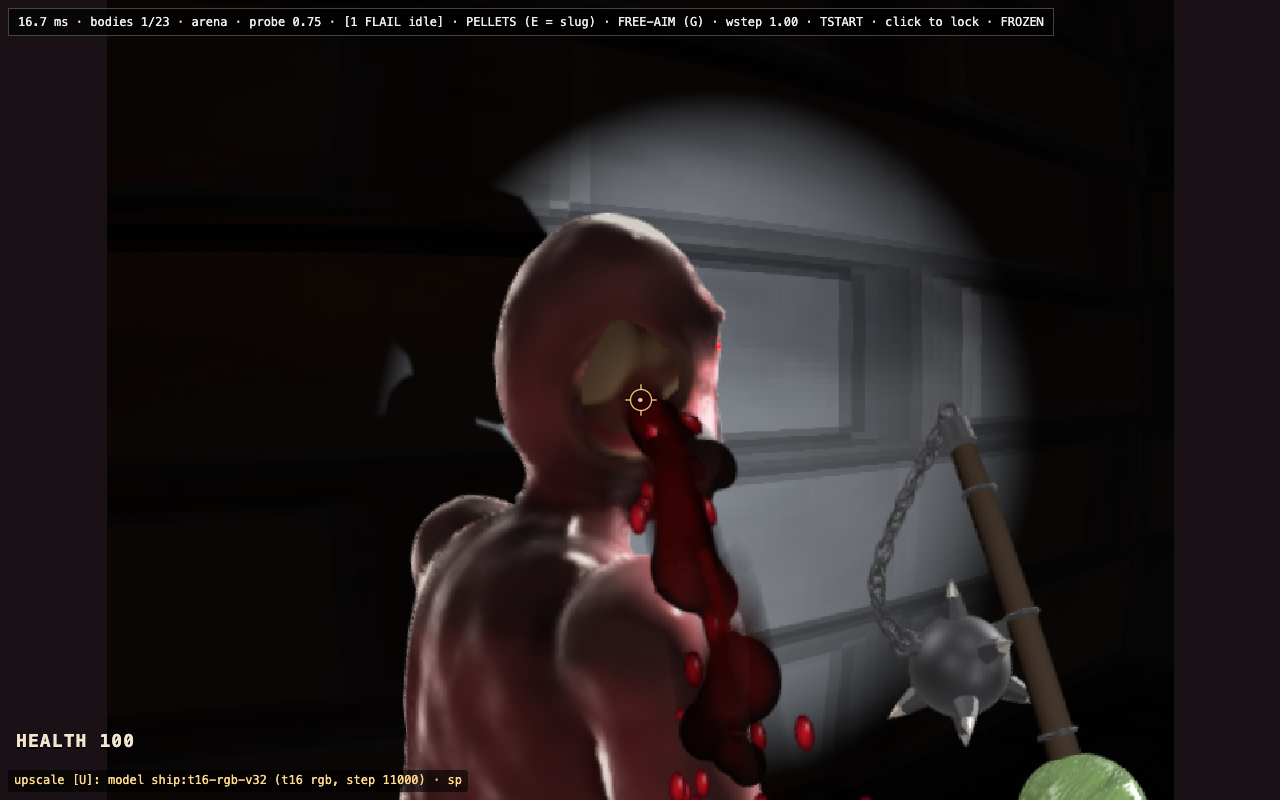
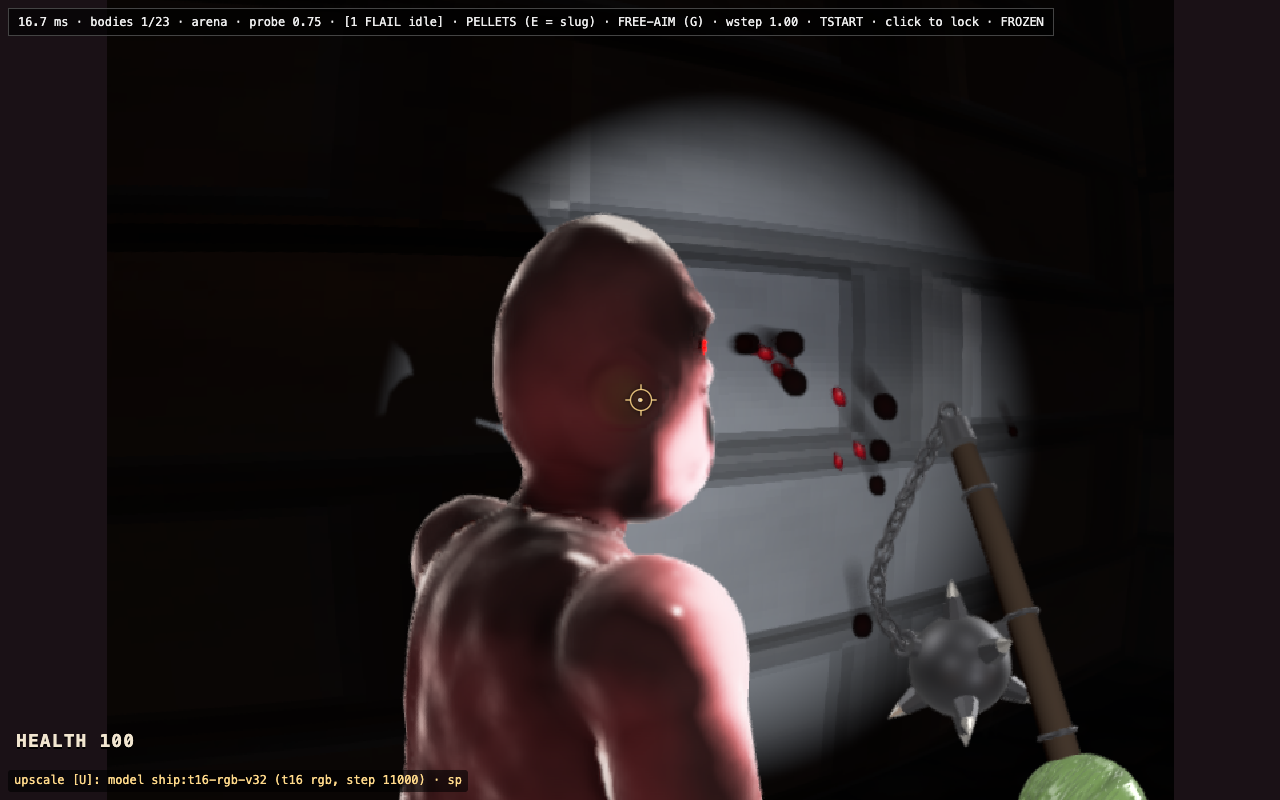
fix(head-damage): the skull is per region and craters anchor where struck, so side-of-head hits kill
Root cause: only the brow and crown had a skull in the v2 model, so a region could crack only if it was
one of those two. The flail gate's side stand lands nearest cheekL (hs -0.96, -0.23, -0.19): ten hits
stripped the cheek to 0 and never killed. And every region crater was stamped at the region's fixed
centre, so the cheekL crater sat on the front of the face ~10 cm from where the side hits landed —
the struck side showed no wound.

Change:
- head-damage.ts: skull damage is per non-orbit region (brow, crown, cheekL, cheekR); any of them
  exposes skull below skullExposed and cracks by skullPerHit (+-jitter) per hit on it, bringing the
  brain out of THAT region. A brow hit still cracks a bare crown; orbit hits crack nothing.
  state.anchor stores the hs of the first blow that struck (nearest + stripped) a non-orbit region.
- game-head-damage.ts: a region's surface point is traced along its anchor's direction when it has
  one (region centre otherwise; orbits always at the orbit), so its crater, its growth, and the
  brain/lumps/chips all come from where it was struck. debug() exposes the anchors.
- flail-gate.mjs: new check that the struck region's crater sits within 5 cm of the strike (hits 2+).
- spec §15: an "as built" note.

Flail gate: PASSED; the side stand now kills on head hit 5 (skull exposed on hit 3), the cheekL
crater 0.4-2.1 cm from the strike. Photos head-hit-1 / head-hit-kill refreshed.

diff --git a/src/lab/sdf-zombie/head-damage.ts b/src/lab/sdf-zombie/head-damage.ts
@@ -6,12 +6,22 @@
 // skull, and about two more hits there crack it — the brain comes out and the zombie dies. Per-zombie
 // jitter (rand) moves every threshold crossing.
 //
+// AS BUILT (spec §15, v2 fixes): the skull is PER REGION — any non-orbit region (brow, crown, cheekL, cheekR)
+// exposes skull below skullExposed and cracks there, so hits on the side of the head kill too (they land
+// nearest a cheek). And a non-orbit region's crater is ANCHORED (state.anchor) at the hs of the first blow
+// that struck it (it was the nearest region and lost flesh); later strips grow it there. A region only
+// spilled on has no anchor (the leaf puts its crater at the region centre); the orbits never anchor — the
+// eye lives at the orbit.
+//
 // One hit, in order: wobble; snap any eye left dangling by an earlier hit; pop an exposed orbit's eye when
 // it is the nearest region (that orbit is not stripped this hit); strip every region by a Gaussian of its
 // hs distance (the upper face also strips the crown at crownSpill); cross the orbit / skull thresholds
 // once; then crack an exposed skull that was hit (the crown counts for brow hits too).
 export type EyeSide = 'L' | 'R';
 export type HeadRegion = 'orbitL' | 'orbitR' | 'brow' | 'crown' | 'cheekL' | 'cheekR';
+/** The regions with a skull under them (every region but the orbits). */
+export type SkullRegion = Exclude<HeadRegion, 'orbitL' | 'orbitR'>;
+export const SKULL_REGIONS: readonly SkullRegion[] = ['brow', 'crown', 'cheekL', 'cheekR'];
 type HS = readonly [number, number, number];   // head-local ÷ half-extents (x right, y up, z face-forward)
 
 export const HEAD_REGIONS: Readonly<Record<HeadRegion, HS>> = {
@@ -42,9 +52,11 @@ export type EyeState = 'painted' | 'in-orbit' | 'dangling' | 'gone';
 export interface HeadDamageState {
   hits: number;
   flesh: Record<HeadRegion, number>;
-  skull: { brow: number; crown: number };
+  skull: Record<SkullRegion, number>;
   eyes: Record<EyeSide, EyeState>;
   dead: boolean;
+  /** Where each struck non-orbit region's crater sits: the hs of the first blow that struck it. */
+  anchor: Partial<Record<SkullRegion, HS>>;
 }
 
 export type HeadEvent =
@@ -53,22 +65,24 @@ export type HeadEvent =
   | { kind: 'orbit-exposed'; side: EyeSide }
   | { kind: 'eye-pop'; side: EyeSide }
   | { kind: 'eye-snap'; side: EyeSide }
-  | { kind: 'skull-exposed'; region: 'brow' | 'crown' }
-  | { kind: 'brain'; region: 'brow' | 'crown' }
+  | { kind: 'skull-exposed'; region: SkullRegion }
+  | { kind: 'brain'; region: SkullRegion }
   | { kind: 'kill' };
 
 const SIDES: readonly EyeSide[] = ['L', 'R'];
 const orbitOf = (side: EyeSide): HeadRegion => (side === 'L' ? 'orbitL' : 'orbitR');
 const sideOf = (r: HeadRegion): EyeSide | null => (r === 'orbitL' ? 'L' : r === 'orbitR' ? 'R' : null);
+export const isSkullRegion = (r: HeadRegion): r is SkullRegion => r !== 'orbitL' && r !== 'orbitR';
 const d2 = (a: HS, b: HS): number => (a[0] - b[0]) ** 2 + (a[1] - b[1]) ** 2 + (a[2] - b[2]) ** 2;
 
 export function makeHeadDamage(): HeadDamageState {
   return {
     hits: 0,
     flesh: { orbitL: 1, orbitR: 1, brow: 1, crown: 1, cheekL: 1, cheekR: 1 },
-    skull: { brow: 0, crown: 0 },
+    skull: { brow: 0, crown: 0, cheekL: 0, cheekR: 0 },
     eyes: { L: 'painted', R: 'painted' },
     dead: false,
+    anchor: {},
   };
 }
 
@@ -82,7 +96,7 @@ export function nearestRegion(hs: HS): HeadRegion {
   return best;
 }
 
-const skullBare = (s: HeadDamageState, r: 'brow' | 'crown'): boolean => s.flesh[r] < REGION_TUNING.skullExposed;
+const skullBare = (flesh: Record<HeadRegion, number>, r: SkullRegion): boolean => flesh[r] < REGION_TUNING.skullExposed;
 
 /** One head-region hit. `hs`: the hit point, head-local ÷ half-extents. `strip`: the swing's flesh strip
  *  (0.25 R/L, 0.35 H). `rand`: the zombie's seeded stream in [0, 1); one draw per hit (the jitter). */
@@ -96,6 +110,7 @@ export function headHit(
   const flesh = { ...s.flesh };
   const skull = { ...s.skull };
   const eyes = { ...s.eyes };
+  const anchor = { ...s.anchor };
   let dead = s.dead;
 
   if (!dead) {
@@ -128,6 +143,8 @@ export function headHit(
     flesh[r] = Math.max(0, was - amt);
     if (was - flesh[r] >= T.stripEventMin) events.push({ kind: 'strip', region: r, flesh: flesh[r] });
   }
+  // The struck region's crater anchors where this blow landed, once (before its strip event is handled).
+  if (isSkullRegion(near) && !anchor[near] && flesh[near] < s.flesh[near]) anchor[near] = [hit.hs[0], hit.hs[1], hit.hs[2]];
   if (!dead) {
     // 5. Thresholds, crossed once.
     for (const side of SIDES) {
@@ -136,14 +153,15 @@ export function headHit(
         events.push({ kind: 'orbit-exposed', side });
       }
     }
-    for (const r of ['brow', 'crown'] as const) {
+    for (const r of SKULL_REGIONS) {
       if (s.flesh[r] >= T.skullExposed && flesh[r] < T.skullExposed) events.push({ kind: 'skull-exposed', region: r });
     }
     // 6. Skull: the hit region's bare skull cracks (a brow hit cracks the bare crown if the brow is covered).
-    const now = { ...s, flesh };
-    const target: 'brow' | 'crown' | null =
-      near === 'crown' ? (skullBare(now, 'crown') ? 'crown' : null)
-      : near === 'brow' ? (skullBare(now, 'brow') ? 'brow' : skullBare(now, 'crown') ? 'crown' : null)
+    //    Orbit hits crack nothing.
+    const target: SkullRegion | null =
+      !isSkullRegion(near) ? null
+      : skullBare(flesh, near) ? near
+      : near === 'brow' && skullBare(flesh, 'crown') ? 'crown'
       : null;
     if (target) {
       skull[target] += T.skullPerHit * jitter;
@@ -153,7 +171,7 @@ export function headHit(
       }
     }
   }
-  return { state: { hits: s.hits + 1, flesh, skull, eyes, dead }, events };
+  return { state: { hits: s.hits + 1, flesh, skull, eyes, dead, anchor }, events };
 }
 
 /** The zombie died some other way (collapse, dynamite): a dangling eye snaps off. */

diff --git a/src/lab/sdf-zombie/webgpu/game-head-damage.ts b/src/lab/sdf-zombie/webgpu/game-head-damage.ts
@@ -13,7 +13,9 @@
 //
 // EVENTS → WORLD.
 //   strip          the region's ONE crater, stamped or replaced (Wound.headRegion) at the region's surface
-//                  point — traced from the region's hs direction toward the head centre — radius
+//                  point — traced toward the head centre from its ANCHOR's hs direction (the model's
+//                  state.anchor: where the first blow that struck the region landed), or from the region
+//                  centre's while it has none (only spilled on; the orbits always) — radius
 //                  REGION_TUNING.craterR(region, flesh), 'keep', no sever. One lasting dent per hit.
 //   orbit-exposed  that eye's painted glow off (view.setEyeGlow) + the IN-ORBIT eyeball: one piece of
 //                  eyeballPrims (no nerve) 1 cm inside the orbit's surface point, looking along the head forward.
@@ -23,7 +25,7 @@
 //                  PLUG-ONLY piece is attached in its place.
 //   skull-exposed  nothing extra: from the threshold on the region's crater carves past the measured skull depth;
 //                  above it the carve stays in the flesh (HEAD_LEAF.carve, regionCarve).
-//   brain          the brain mesh + lumps + chips from the CRACKED region's surface point, the reduced blood,
+//   brain          the brain mesh + lumps + chips from the CRACKED region's (anchored) surface point, the reduced blood,
 //                  and a CROWN.brainR cavity there (headRegion 'brain').
 //   kill           forceCollapse.
 //
@@ -52,8 +54,8 @@ import { clothifyWound, woundWorldPos, worldHitToWound, type Wound } from '../da
 import { sdBody, sdPrimitive } from '../validate';
 import { headQuatOf } from '../rig-bind';
 import {
-  HEAD_REGIONS, REGION_TUNING, headDeath, headHit, makeHeadDamage,
-  type EyeSide, type EyeState, type HeadDamageState, type HeadEvent, type HeadRegion,
+  HEAD_REGIONS, REGION_TUNING, headDeath, headHit, isSkullRegion, makeHeadDamage,
+  type EyeSide, type EyeState, type HeadDamageState, type HeadEvent, type HeadRegion, type SkullRegion,
 } from '../head-damage';
 import {
   addDent, deformHead, headAffine, headAffineMatrix, kickWobble, makeHeadDeform, rotate, stepWobble,
@@ -130,9 +132,11 @@ export interface HeadDamageDeps {
 export interface HeadDamageDebug {
   hits: number;
   flesh: Record<HeadRegion, number>;
-  skull: { brow: number; crown: number };
+  skull: Record<SkullRegion, number>;
   eyes: Record<EyeSide, EyeState>;
   dead: boolean;
+  /** The anchored regions' hs (the model's state.anchor). */
+  anchor: Partial<Record<SkullRegion, readonly [number, number, number]>>;
   squash: number;
   flat: number[];
   /** Each eye's eyeball centre (world): in its orbit, or at the end of its stalk; null painted / gone. */
@@ -207,11 +211,11 @@ function normalAt(field: (p: Vec3) => number, p: Vec3): Vec3 {
 
 /** Outside the head on a region's hs line: the leaf traces from here toward the head centre. The orbits use
  *  eyeRayStart (in front of the face on the eye's line, as v1's socket did); the rest start 1.5 head radii
- *  out along their hs direction. */
-export function regionRayStart(frame: HeadFrame, r: HeadRegion): Vec3 {
+ *  out along their hs direction — `anchor`'s when the region has one (state.anchor), else the centre's. */
+export function regionRayStart(frame: HeadFrame, r: HeadRegion, anchor?: readonly [number, number, number]): Vec3 {
   if (r === 'orbitL') return eyeRayStart(frame, 'L');
   if (r === 'orbitR') return eyeRayStart(frame, 'R');
-  const hs = HEAD_REGIONS[r];
+  const hs = anchor && Math.hypot(anchor[0], anchor[1], anchor[2]) > 0.2 ? anchor : HEAD_REGIONS[r];
   const k = 1.5 / (Math.hypot(hs[0], hs[1], hs[2]) || 1);
   return add(frame.centre, rotate(frame.quat, [hs[0] * frame.axes[0] * k, hs[1] * frame.axes[1] * k, hs[2] * frame.axes[2] * k]));
 }
@@ -384,7 +388,8 @@ export function createHeadDamage(ctx: GameContext, deps: HeadDamageDeps): HeadDa
       // An orbit is traced straight back along the head's forward (on the painted eye's line: toward the centre
       // it would land ~2 cm nearer the nose); the other regions toward the head centre.
       const back = reg === 'orbitL' || reg === 'orbitR' ? rotate(frame.quat, [0, 0, -1]) : undefined;
-      if (!p) { p = surfaceToward(field, regionRayStart(frame, reg), frame, back); surf.set(reg, p); }
+      const anchor = isSkullRegion(reg) ? h.model.anchor[reg] : undefined;
+      if (!p) { p = surfaceToward(field, regionRayStart(frame, reg, anchor), frame, back); surf.set(reg, p); }
       return p;
     };
     // The shallowest depth below the anchor plane at which the carve (a sphere of `radius` round the anchor, clipped
@@ -574,6 +579,7 @@ export function createHeadDamage(ctx: GameContext, deps: HeadDamageDeps): HeadDa
           skull: { ...m.skull },
           eyes: { ...m.eyes },
           dead: m.dead,
+          anchor: { ...m.anchor },
           squash: h.deform.s,
           flat: [...h.deform.flat],
           eyeball,

diff --git a/src/lab/sdf-zombie/head-damage.test.ts b/src/lab/sdf-zombie/head-damage.test.ts
@@ -93,6 +93,41 @@ describe('head damage v2', () => {
     expect(nearestRegion([-0.5, 0.1, 0.9])).toBe('orbitL');
     expect(nearestRegion([0.6, -0.35, 0.7])).toBe('cheekR');
   });
+  // Head damage v2, as built (spec §15): the skull is per region, and a region's crater is anchored where it was struck.
+  it('the side of the head (cheekL) exposes skull and cracks: the brain comes out of the cheek and kills in 5–7', () => {
+    const side: [number, number, number] = [-0.96, -0.23, -0.19];   // the flail gate's side stand (nearest cheekL)
+    expect(nearestRegion(side)).toBe('cheekL');
+    for (const v of [0, 0.5, 0.999]) {
+      let s = makeHeadDamage(); let all: HeadEvent[] = []; let n = 0;
+      while (!s.dead && n < 20) { const r = headHit(s, { hs: side, strip: 0.25 }, () => v); s = r.state; all = all.concat(r.events); n++; }
+      expect(n).toBeGreaterThanOrEqual(5); expect(n).toBeLessThanOrEqual(7);
+      expect(all).toContainEqual({ kind: 'skull-exposed', region: 'cheekL' });
+      expect(all).toContainEqual({ kind: 'brain', region: 'cheekL' });
+      expect(all.findIndex(e => e.kind === 'skull-exposed')).toBeLessThan(all.findIndex(e => e.kind === 'brain'));
+    }
+  });
+  it('hits concentrated on the crown or a cheek kill in 5–7 at both jitter extremes; orbit hits never crack', () => {
+    for (const reg of ['crown', 'cheekR'] as const) for (const v of [0, 0.999]) {
+      let s = makeHeadDamage(); let n = 0;
+      while (!s.dead && n < 20) { s = headHit(s, { hs: at(reg), strip: 0.25 }, () => v).state; n++; }
+      expect(n).toBeGreaterThanOrEqual(5); expect(n).toBeLessThanOrEqual(7);
+    }
+    let s = makeHeadDamage();
+    for (let i = 0; i < 12; i++) s = headHit(s, { hs: at('orbitL'), strip: 0.35 }, noJitter).state;
+    expect('orbitL' in s.skull).toBe(false);                  // an orbit has no skull of its own
+    expect(s.skull.cheekL).toBe(0);
+    expect(s.dead).toBe(false);
+  });
+  it('a region crater is anchored where the first blow that struck it landed; orbits and spill-only regions have no anchor', () => {
+    const first: [number, number, number] = [-0.96, -0.23, -0.19];
+    let s = headHit(makeHeadDamage(), { hs: first, strip: 0.25 }, noJitter).state;
+    expect(s.anchor.cheekL).toEqual(first);
+    expect('orbitL' in s.anchor).toBe(false);                 // spilled on, never struck
+    s = headHit(s, { hs: [-0.7, -0.3, 0.2], strip: 0.25 }, noJitter).state;
+    expect(s.anchor.cheekL).toEqual(first);                    // later strips grow it there
+    for (let i = 0; i < 3; i++) s = headHit(s, { hs: at('orbitR'), strip: 0.25 }, noJitter).state;
+    expect('orbitR' in s.anchor).toBe(false);                 // the eye lives at the orbit
+  });
   it('a hit on the back of the head strips its nearest region in full (the crown), not nothing', () => {
     const r = headHit(makeHeadDamage(), { hs: [0, 0.2, -1], strip: 0.25 }, noJitter);
     expect(nearestRegion([0, 0.2, -1])).toBe('crown');

diff --git a/docs/superpowers/specs/2026-09-28-melee-head-damage-design.md b/docs/superpowers/specs/2026-09-28-melee-head-damage-design.md
@@ -301,3 +301,16 @@ Targets: 3–4 hits to one spot strip it to the bone, and 5–7 head hits kill.
 - squash 0.40 along the blow, with the head bulging across it (max 0.45);
 - about **4 Hz**, damping about 0.18, so 2–3 visible bounces over about 1 s;
 - a slight shear toward the blow, so the head reads as knocked.
+
+**As built (v2 fixes, 2026-09-29; found by the v2 gates — the flail gate's side stand took 10 hits without a kill,
+and the struck side showed no wound):**
+- **The skull is per region.** Any non-orbit region — `brow`, `crown`, `cheekL`, `cheekR` — exposes skull when
+  its flesh falls below 0.3 and cracks there (0.4 ± 20% per hit on the exposed region, `REGION_TUNING.skullPerHit`),
+  so the brain comes out of *that* region and the zombie dies. Hits on the side of the head land nearest a cheek,
+  so they kill too. A brow hit still cracks a bare crown when the brow is covered; an orbit hit cracks nothing.
+  Hits concentrated on one non-orbit region kill in 5–7.
+- **A region's crater is anchored where it was struck.** The first blow whose nearest region is a non-orbit
+  region (and strips it) stores its `hs` as that region's anchor; the crater is traced onto the surface along the
+  anchor's direction, and later strips grow it there. A region only spilled on has no anchor, so its crater sits at
+  the region centre; the orbit craters always sit at the orbit, because the eye lives there. The brain, lumps and
+  skull chips launch from the cracked region's anchored point.
